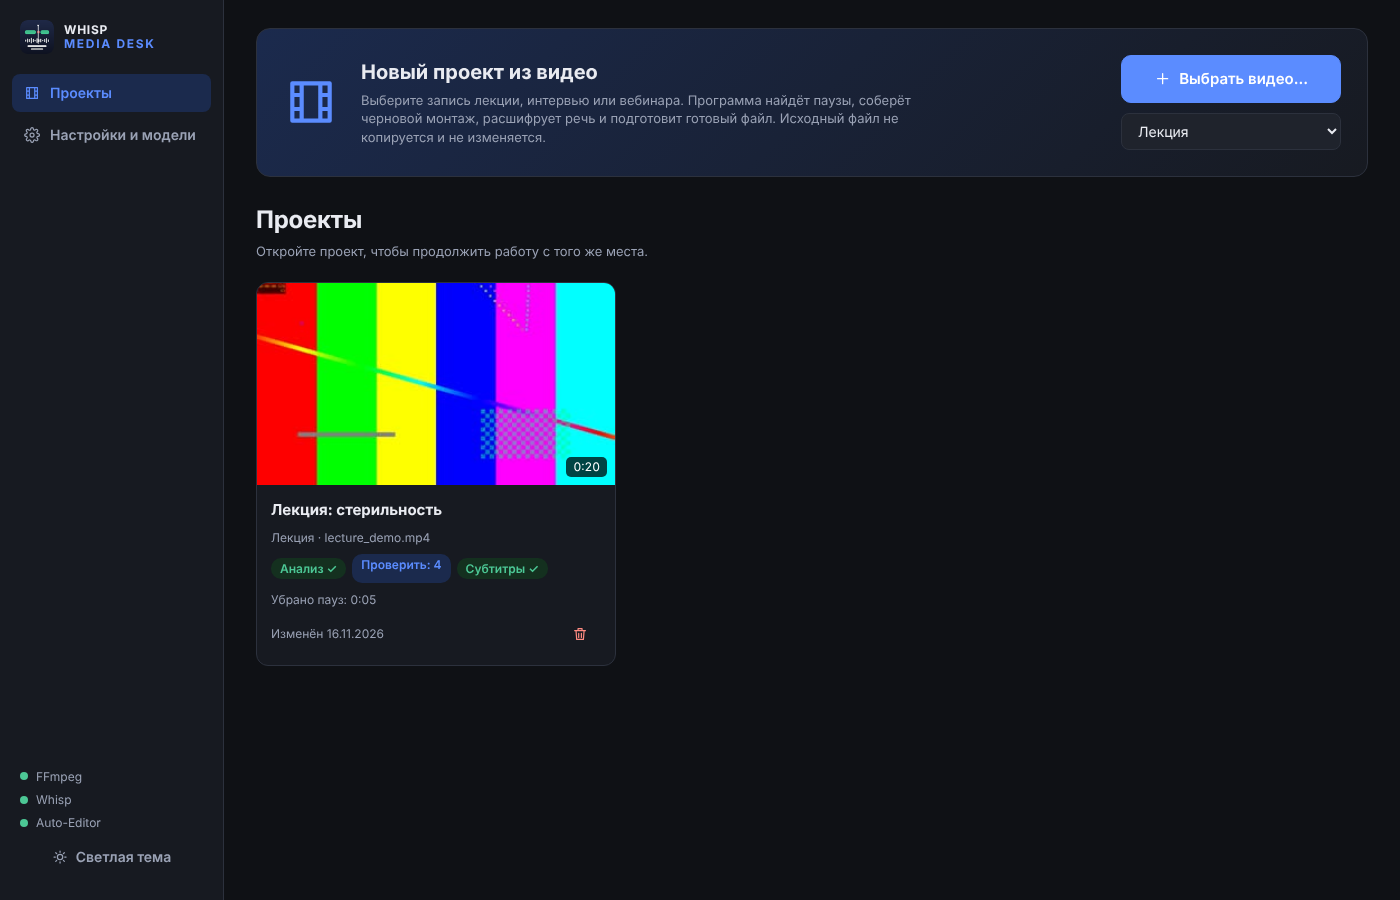
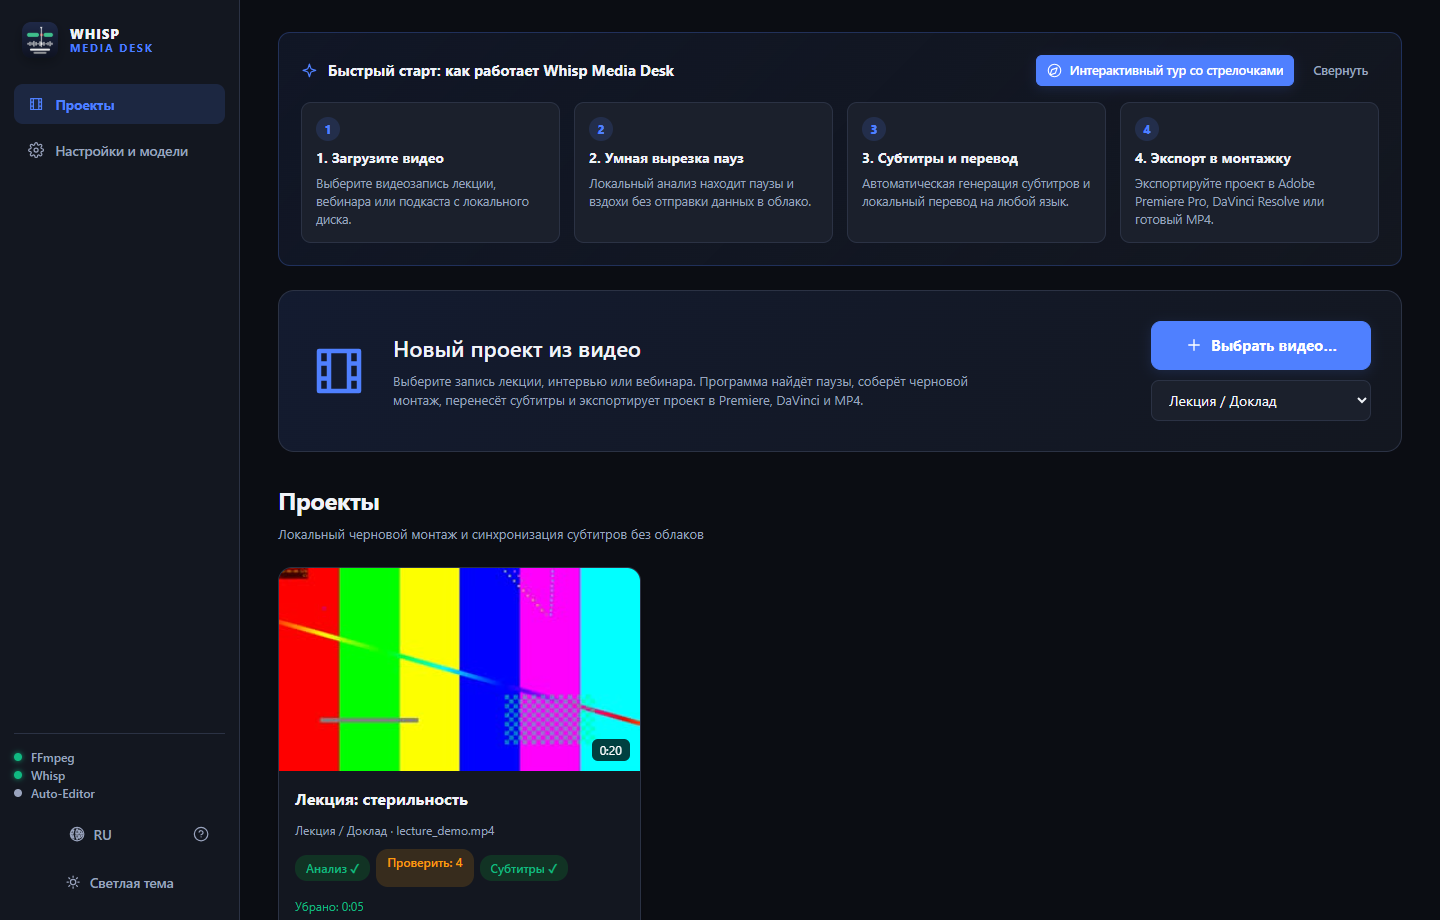
docs: update screenshots with all new features and refresh README showcase

Changed region(s): [[0.0, 0.0311, 0.9829, 0.9956], [0.7986, 0.3422, 0.9521, 0.4667], [0.0, 0.8089, 0.1229, 0.9644]]

diff --git a/tools/make_screenshots.py b/tools/make_screenshots.py
@@ -3,14 +3,15 @@
 Запуск: python tools/make_screenshots.py"""
 from __future__ import annotations
 
+import json
 import os
 import re
+import shutil
 import subprocess
 import sys
 import tempfile
 import time
 import urllib.request
-import json
 from pathlib import Path
 
 ROOT = Path(__file__).resolve().parent.parent
@@ -19,8 +20,12 @@ BASE = f"http://127.0.0.1:{PORT}"
 
 
 def call(method: str, path: str, body: dict | None = None):
-    req = urllib.request.Request(BASE + path, method=method, data=json.dumps(body).encode() if body is not None else None,
-                                 headers={"Content-Type": "application/json"})
+    req = urllib.request.Request(
+        BASE + path,
+        method=method,
+        data=json.dumps(body).encode() if body is not None else None,
+        headers={"Content-Type": "application/json"},
+    )
     with urllib.request.urlopen(req, timeout=30) as r:
         return json.loads(r.read() or b"null")
 
@@ -38,48 +43,132 @@ def main() -> None:
 
     home = Path(tempfile.mkdtemp(prefix="desk_shots_"))
     sample = home / "lecture_demo.mp4"
-    subprocess.run(["ffmpeg", "-y", "-v", "error", "-f", "lavfi", "-i", "testsrc2=s=1280x720:r=25:d=20", "-f", "lavfi", "-i",
-                    "sine=f=440:r=48000:d=20,volume='if(between(t,3,7)+between(t,12,13)+between(t,17,20),0.0,0.5)':eval=frame",
-                    "-c:v", "libx264", "-preset", "ultrafast", "-pix_fmt", "yuv420p", "-c:a", "aac", "-shortest", str(sample)], check=True)
+    subprocess.run([
+        "ffmpeg", "-y", "-v", "error",
+        "-f", "lavfi", "-i", "testsrc2=s=1280x720:r=25:d=20",
+        "-f", "lavfi", "-i", "sine=f=440:r=48000:d=20,volume='if(between(t,3,7)+between(t,12,13)+between(t,17,20),0.0,0.5)':eval=frame",
+        "-c:v", "libx264", "-preset", "ultrafast", "-pix_fmt", "yuv420p", "-c:a", "aac", "-shortest", str(sample)
+    ], check=True)
+
     (home / "lecture_demo.srt").write_text(
-        "1\n00:00:00,500 --> 00:00:02,800\nСегодня разберём устройство современного украшения\n\n"
-        "2\n00:00:07,200 --> 00:00:11,500\nПервое правило — стерильность инструмента и рабочего места\n\n"
-        "3\n00:00:13,200 --> 00:00:16,800\nВторое правило — правильный выбор материала\n", encoding="utf-8")
-    env = {**os.environ, "WHISP_DESK_HOME": str(ROOT)}
-    # изолируем данные: отдельные projects/config/logs во временной папке, фронтенд и шаблоны берём из репозитория
+        "1\n00:00:00,500 --> 00:00:02,800\nЭээ, сегодня разберём устройство современного украшения\n\n"
+        "2\n00:00:07,200 --> 00:00:11,500\nНу и первое правило — стерильность инструмента и рабочего места\n\n"
+        "3\n00:00:13,200 --> 00:00:16,800\nВторое правило — правильный выбор материала\n",
+        encoding="utf-8"
+    )
+
+    env = {**os.environ}
+    # Изолируем данные: отдельные projects/config/logs во временной папке, фронтенд и шаблоны берём из репозитория
     for d in ("templates", "frontend"):
-        (home / d).symlink_to(ROOT / d, target_is_directory=True)
+        target_dir = home / d
+        try:
+            target_dir.symlink_to(ROOT / d, target_is_directory=True)
+        except OSError:
+            shutil.copytree(ROOT / d, target_dir, dirs_exist_ok=True)
+
     env["WHISP_DESK_HOME"] = str(home)
-    proc = subprocess.Popen([sys.executable, "-m", "app.main", "--no-browser", "--port", str(PORT)], cwd=ROOT / "backend", env=env,
-                            stdout=subprocess.DEVNULL, stderr=subprocess.DEVNULL)
+    proc = subprocess.Popen(
+        [sys.executable, "-m", "app.main", "--no-browser", "--port", str(PORT)],
+        cwd=ROOT / "backend",
+        env=env,
+        stdout=subprocess.DEVNULL,
+        stderr=subprocess.DEVNULL,
+    )
+
     try:
         for _ in range(40):
             try:
-                call("GET", "/api/system"); break
-            except Exception:  # noqa: BLE001
+                call("GET", "/api/system")
+                break
+            except Exception:
                 time.sleep(0.3)
-        pid = call("POST", "/api/projects", {"name": "Лекция: стерильность"})["id"]
+
+        pid = call("POST", "/api/projects", {"name": "Лекция: стерильность", "type": "lecture"})["id"]
         call("PUT", f"/api/projects/{pid}/source", {"path": str(sample)})
         assert wait_job(call("POST", f"/api/projects/{pid}/analyze", {}))["status"] == "COMPLETED"
-        subprocess.run(["curl", "-s", "-o", "/dev/null", "-F", f"file=@{home / 'lecture_demo.srt'}", f"{BASE}/api/projects/{pid}/subtitles/import"], check=True)
+
+        # Импорт субтитров через multipart/form-data
+        boundary = "----WebKitFormBoundary7MA4YWxkTrZu0gW"
+        body = (
+            f"--{boundary}\r\n"
+            f'Content-Disposition: form-data; name="file"; filename="lecture_demo.srt"\r\n'
+            f"Content-Type: text/plain\r\n\r\n"
+            f"{(home / 'lecture_demo.srt').read_text(encoding='utf-8')}\r\n"
+            f"--{boundary}--\r\n"
+        ).encode("utf-8")
+        req = urllib.request.Request(
+            f"{BASE}/api/projects/{pid}/subtitles/import",
+            data=body,
+            headers={"Content-Type": f"multipart/form-data; boundary={boundary}"},
+            method="POST",
+        )
+        with urllib.request.urlopen(req):
+            pass
+
+        # Генерируем умные главы для красивого отображения в экспорте
+        try:
+            call("POST", f"/api/projects/{pid}/chapters/generate", {"min_interval_s": 5, "lang": "ru"})
+        except Exception:
+            pass
+
         out = ROOT / "docs"
         out.mkdir(exist_ok=True)
+
         with sync_playwright() as pw:
-            browser = pw.chromium.launch(channel="chrome")
-            page = browser.new_page(viewport={"width": 1400, "height": 900}, locale="ru-RU")
-            page.goto(BASE); page.wait_for_timeout(1200)
+            try:
+                browser = pw.chromium.launch(channel="chrome")
+            except Exception:
+                browser = pw.chromium.launch()
+
+            context = browser.new_context(viewport={"width": 1440, "height": 920}, locale="ru-RU")
+            page = context.new_page()
+            page.add_init_script("""
+                localStorage.setItem('whisp_seen_home_tour', 'true');
+                localStorage.setItem('whisp_seen_project_tour', 'true');
+            """)
+
+            # 1. Список проектов
+            page.goto(BASE)
+            page.wait_for_timeout(1500)
             page.screenshot(path=str(out / "01-projects.png"))
-            page.get_by_text("Лекция: стерильность").first.click(); page.wait_for_timeout(1800)
-            shots = (("Видео и анализ", "02-setup.png"), ("Монтаж", "03-editor.png"), ("Субтитры", "04-subtitles.png"), ("Экспорт", "05-export.png"))
-            for label, name in shots:
-                page.get_by_role("button", name=re.compile(label)).first.click(); page.wait_for_timeout(1500)
+
+            # Открываем проект
+            page.get_by_text("Лекция: стерильность").first.click()
+            page.wait_for_timeout(2000)
+
+            # 2. Настройка и анализ, Монтаж, Субтитры, Экспорт
+            shots = (
+                ('[data-tour="step-setup"]', "02-setup.png"),
+                ('[data-tour="step-edit"]', "03-editor.png"),
+                ('[data-tour="step-subs"]', "04-subtitles.png"),
+                ('[data-tour="step-export"]', "05-export.png"),
+            )
+            for selector, name in shots:
+                page.locator(selector).first.click()
+                page.wait_for_timeout(1800)
+                if name == "04-subtitles.png":
+                    # Раскроем блок слов-паразитов для демонстрации фичи
+                    try:
+                        page.get_by_role("button", name=re.compile("Паразиты")).first.click()
+                        page.wait_for_timeout(800)
+                    except Exception:
+                        pass
                 page.screenshot(path=str(out / name))
-            page.goto(BASE + "#/settings"); page.wait_for_timeout(1500)
+
+            # 6. Настройки и модели
+            page.goto(BASE + "#/settings")
+            page.wait_for_timeout(1500)
             page.screenshot(path=str(out / "06-settings.png"))
+
             browser.close()
-        print("saved", sorted(p.name for p in out.glob("*.png")))
+
+        print("Successfully saved:", sorted(p.name for p in out.glob("*.png")))
     finally:
         proc.terminate()
+        try:
+            shutil.rmtree(home, ignore_errors=True)
+        except Exception:
+            pass
 
 
 if __name__ == "__main__":

diff --git a/backend/app/main.py b/backend/app/main.py
@@ -3,9 +3,14 @@ from __future__ import annotations
 
 import argparse
 import logging
+import mimetypes
 import threading
 import webbrowser
 from contextlib import asynccontextmanager
+
+# На Windows реестр может возвращать text/plain для .js, что ломает ES-модули в Chrome
+mimetypes.add_type("application/javascript", ".js")
+mimetypes.add_type("text/css", ".css")
 
 from fastapi import FastAPI, Request
 from fastapi.middleware.trustedhost import TrustedHostMiddleware

diff --git a/README.md b/README.md
@@ -2,24 +2,49 @@
 
 # WHISP MEDIA DESK
 
-Локальная студия подготовки видео (лекции, интервью, вебинары) на основе [Whisp](https://github.com/DmitryLeLeE/whisp).
-Находит паузы, строит черновой монтаж, даёт его проверить и поправить, пересчитывает субтитры под новый монтаж и
-рендерит MP4 с пакетом материалов. Всё работает на вашем компьютере: без интернета, без облачных API и без LLM.
+Локальная студия подготовки видео (лекции, подкасты, интервью, вебинары) на основе [Whisp](https://github.com/DmitryLeLeE/whisp).
+Находит паузы, строит черновой монтаж, вырезает слова-паразиты, даёт монтировать видео прямо по тексту, генерирует главы для YouTube, улучшает голос и экспортирует проект в Premiere Pro, DaVinci Resolve и MP4. Всё работает на вашем компьютере: **100% локально, без интернета, без облачных API и без передачи данных**.
 
-Сервер слушает только `127.0.0.1`. Исходные файлы не изменяются и не копируются — проект хранит ссылку на оригинал.
+Сервер слушает только `127.0.0.1`. Исходные файлы не изменяются и не копируются — проект хранит безопасную ссылку на оригинал.
 
-![Монтаж](docs/03-editor.png)
+---
+
+### Скриншоты интерфейса
+
+| Интерактивный монтаж | Субтитры, текстовый монтаж и чистка паразитов |
+|:---:|:---:|
+| ![Монтаж](docs/03-editor.png) | ![Субтитры](docs/04-subtitles.png) |
+
+| Экспорт (YouTube Chapters, NLE, Shorts 9:16) | Проекты и пакетный импорт |
+|:---:|:---:|
+| ![Экспорт](docs/05-export.png) | ![Проекты](docs/01-projects.png) |
 
 <details>
-<summary>Остальные экраны</summary>
+<summary><b>Развернуть остальные экраны (Настройка анализа, Настройки и модели)</b></summary>
 
-| | |
-|---|---|
-| ![Проекты](docs/01-projects.png) | ![Анализ](docs/02-setup.png) |
-| ![Субтитры](docs/04-subtitles.png) | ![Экспорт](docs/05-export.png) |
-| ![Настройки и модели](docs/06-settings.png) | |
+| Настройка и профили анализа | Управление моделями и движками |
+|:---:|:---:|
+| ![Анализ](docs/02-setup.png) | ![Настройки и модели](docs/06-settings.png) |
 
 </details>
+
+---
+
+## Ключевые возможности
+
+* ✂ **Автоматический черновой монтаж**: Мгновенный поиск пауз и тишины через встроенный анализатор или Auto-Editor.
+* 📝 **Текстовый монтаж (как в Descript)**: Монтируйте видео прямо по расшифровке — кликните по реплике, чтобы вырезать её из видеоряда, или верните обратно.
+* 🧽 **Чистка слов-паразитов в 1 клик**: Детектор запинок («эээ», «ммм») и слов-паразитов («ну», «короче», «типа», «как бы») с мгновенным удалением на таймлайне.
+* 📑 **Умные главы для YouTube (Smart Chapters)**: Семантическая разбивка видео на главы с таймкодами (`00:00 Введение`, `01:25 Основная тема`) и копированием для описания ролика в один клик.
+* 📱 **Авто-кадрирование под Shorts / Reels / TikTok (9:16)**: Быстрый рендер вертикальных роликов с центрированием кадра или размытием полей.
+* 🎙 **Улучшение голоса и шумоподавление**: Спектральный денойзер (`afftdn`) и студийные профили эквализации голоса (*«Подкаст»*, *«Чёткость речи»*, *«Теплота»*, *«Радио»*).
+* 📸 **Захват стоп-кадров (HD Thumbnail Grabber)**: Сохранение любого кадра в оригинальном разрешении 1080p/4K прямо из таймлайна для создания обложки видео.
+* 🧭 **Автоскролл за плейхедом**: Плавное слежение экрана за курсором воспроизведения на длинных записях.
+* 🎬 **Пакетный импорт**: Перетаскивайте несколько файлов одновременно или выбирайте пачкой в проводнике.
+* 📦 **Экспорт без перекодирования**: Форматы **Adobe Premiere Pro (XML)**, **DaVinci Resolve (FCPXML + Markers CSV)**, Final Cut Pro, EDL CMX3600, OpenTimelineIO и готовый MP4 со вшитыми субтитрами.
+* ⌨ **Профили горячих клавиш**: Поддержка раскладок **Adobe Premiere Pro** (`J-K-L`, `Q/W` Ripple Trim, `C` Razor) и **DaVinci Resolve**.
+* 📊 **Аналитика речи (Speech Insights)**: Подсчёт скорости речи (WPM), хронометража, сэкономленного времени и индекса оптимизации контента.
+
 
 ## Установка
 
@@ -92,20 +117,24 @@ iscc installer\whisp_desk.iss    :: установщик (нужен Inno Setup 
 4. **Субтитры** → импорт SRT/VTT/ASS/TXT/JSON или расшифровка через Whisp. Поиск по тексту переходит к моменту видео.
 5. **Экспорт** → проектные файлы для монтажных программ (**Adobe Premiere Pro XML**, **DaVinci Resolve FCPXML**, маркеры CSV, OpenTimelineIO, EDL CMX3600), субтитры (SRT, VTT, ASS, двуязычные, оглавление для YouTube), либо финальный рендер в MP4.
 
-Горячие клавиши в редакторе:
+Горячие клавиши в редакторе (поддерживаются пресеты: **Whisp Desk**, **Adobe Premiere Pro**, **DaVinci Resolve**):
 
 | Клавиша | Действие |
 |---|---|
 | `Пробел` | пуск / пауза |
+| `J` / `K` / `L` | перемотка назад / пауза / перемотка вперёд |
 | `←` `→` | кадр назад / вперёд (с Shift — 5 с) |
-| `I` `O` | начало и конец интервала |
-| `K` / `C` | оставить / удалить выбранный фрагмент |
-| `S` | разделить |
+| `Q` | Ripple Trim In (быстро обрезать начало фрагмента до курсора) |
+| `W` | Ripple Trim Out (быстро обрезать конец фрагмента от курсора) |
+| `S` / `C` / `B` | разделить / разрезать по курсору (Razor / Blade) |
+| `I` `O` | начало и конец интервала (In / Out) |
+| `K` / `C` | оставить / удалить выбранный фрагмент (в раскладке Whisp Desk) |
 | `R` | отметить проверенным |
 | `Enter` | принять решение и показать следующее непроверенное (запас 1,5 с до и после) |
 | `N` | следующее непроверенное без принятия |
-| `Ctrl+Z`, `Ctrl+Shift+Z` | отмена, повтор |
+| `Ctrl+Z`, `Ctrl+Shift+Z` | отмена, повтор (Undo / Redo) |
 | `Ctrl` + колесо | масштаб шкалы |
+| `?` | открыть окно горячих клавиш и выбор пресета раскладки |
 
 ## Движки
 
